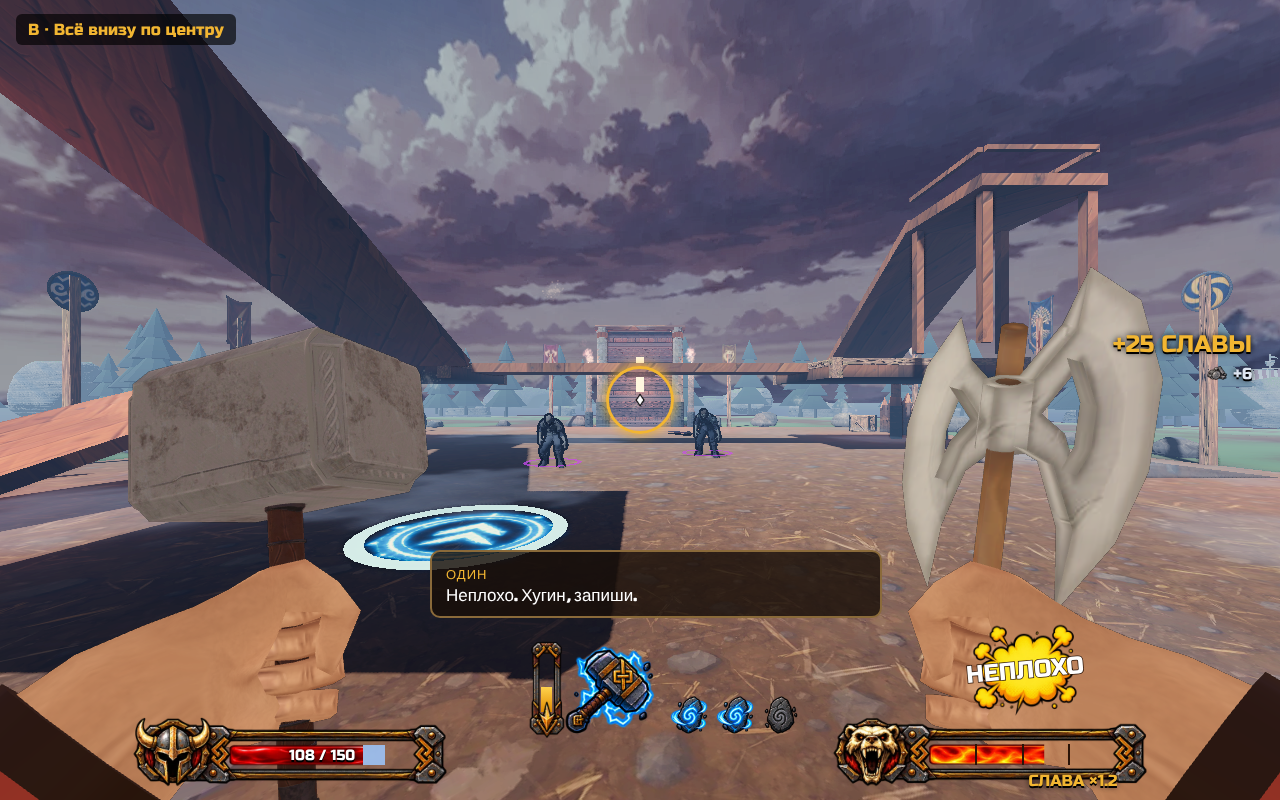
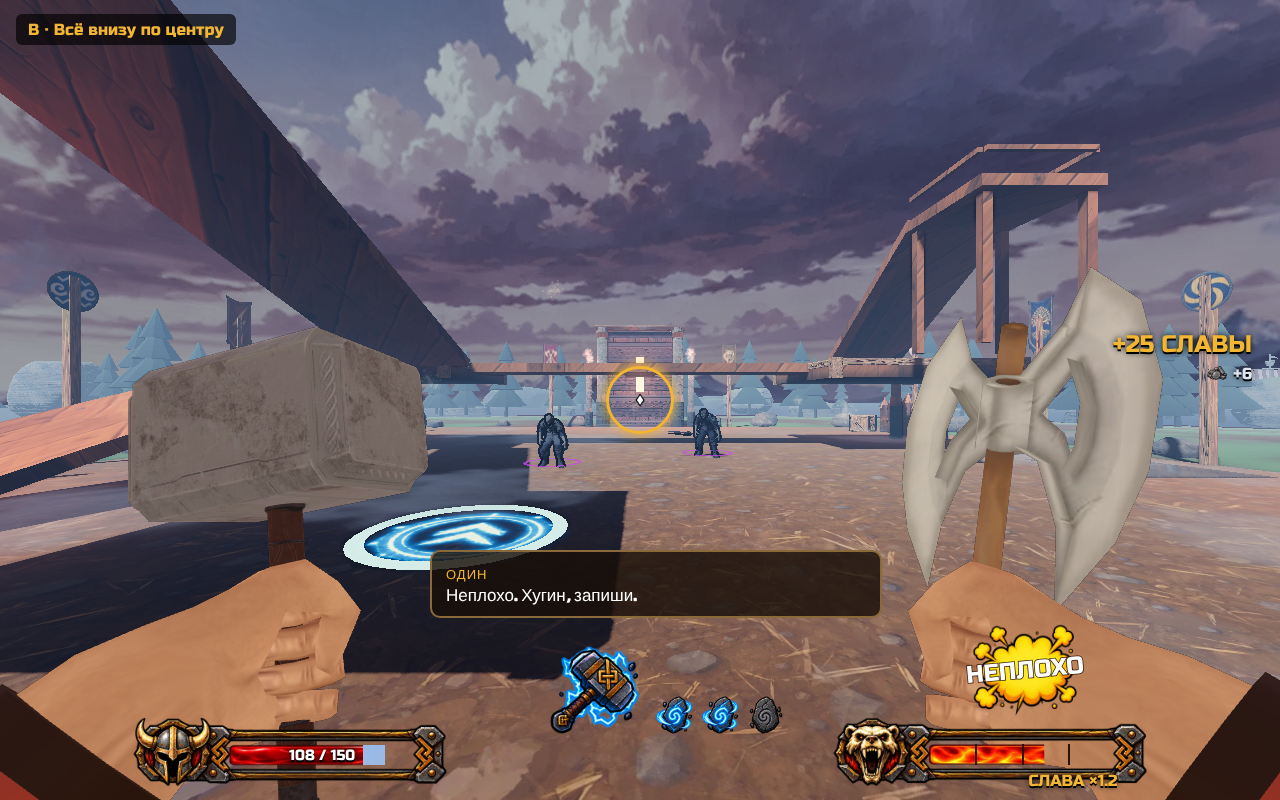
NOW.md: без шкалы высоты — высота читается эффектами
Claude-Session: https://claude.ai/code/session_016EUpgtyjWpewyAFB7LHHNf

Changed region(s): [[0.4062, 0.7812, 0.625, 0.9375]]

diff --git a/NOW.md b/NOW.md
@@ -19,7 +19,7 @@
 ## Партия 2 — ЧЕРНОВИК, НЕ НАЧИНАТЬ (владелец ещё не играл партию 1; решения 29.10 утром)
 Запуск — только когда владелец уберёт пометку «ЧЕРНОВИК». Сначала макеты (Claude рисует, владелец смотрит), потом агент.
 1. **П6. Интерфейс — в бою только главное:**
-   - **раскладка — макет B, выбран владельцем: `docs/mockups/hud_B_chosen.png`** (всё внизу по центру в одну линию: слева здоровье в рамке со шлемом, по центру иконка Мьёльнира `hud_mjolnir_*` + шкала высоты `hud_slam_meter_*` слева от неё + руны камнями `hud_dash_full/empty` справа, справа шкала стиля в рамке с медведем `hud_rage_*` с засечками рангов и «СЛАВА ×N», над ней облако `comic_burst` с названием ранга, как раньше). Только скин владельца, своих рамок не рисовать;
+   - **раскладка — макет B, выбран владельцем: `docs/mockups/hud_B_chosen.png`** (всё внизу по центру в одну линию: слева здоровье в рамке со шлемом, по центру иконка Мьёльнира `hud_mjolnir_*` + руны камнями `hud_dash_full/empty` справа, справа шкала стиля в рамке с медведем `hud_rage_*` с засечками рангов и «СЛАВА ×N», над ней облако `comic_burst` с названием ранга, как раньше). Только скин владельца, своих рамок не рисовать;
    - всегда: здоровье, руны на молоте, ранг «ДОСТОЙНО!»;
    - оружие — на 2 с при смене/подборе; патроны — только когда в руках ствол;
    - Слава и серебро — всплывают «+25» на 2 с при получении, сумма — по Tab и между залами;
@@ -27,7 +27,8 @@
    - **Tab — пауза-экран сборки** (как в Hades): все трейты и руны с описаниями, Слава, серебро, карта пути; игра на паузе;
    - цифры урона — убрать (настройка «включить»), остаются комикс-слова;
    - реплики в бою — один пузырь, не чаще раза в 15 с, низ экрана; вороны — только между волнами;
-   - центр экрана — только прицел и кольцо хвата (когда молот летит); перезарядка и шкала высоты — на молоте внизу.
+   - центр экрана — только прицел и кольцо хвата (когда молот летит); перезарядка — на иконке молота внизу (затемнение, как кулдаун).
+   - **шкалы высоты удара-приземления нет вообще** (решение 29.10): механика остаётся (выше — сильнее; условие «после воздушного прыжка или с высоты» — тоже), но читается без шкалы — при падении линии скорости и свист нарастают, на большой высоте молот в руке вспыхивает молнией, при ударе — больше бабах и «Вот! ВОТ!». `hud_slam_meter_*` и шкалу в рукояти `RuneHammer` убрать.
 2. **П7. Зал как путь — 2 пробных зала** (остальные — после решения владельца):
    - форма — **вперёд и вверх**: вход внизу, двери-награды наверху и видны сразу; высота = прогресс;
    - волны по пути (1 — у входа, 2 — дальше, 3 — у выхода), **не запирать** — идти можно в любой момент;
